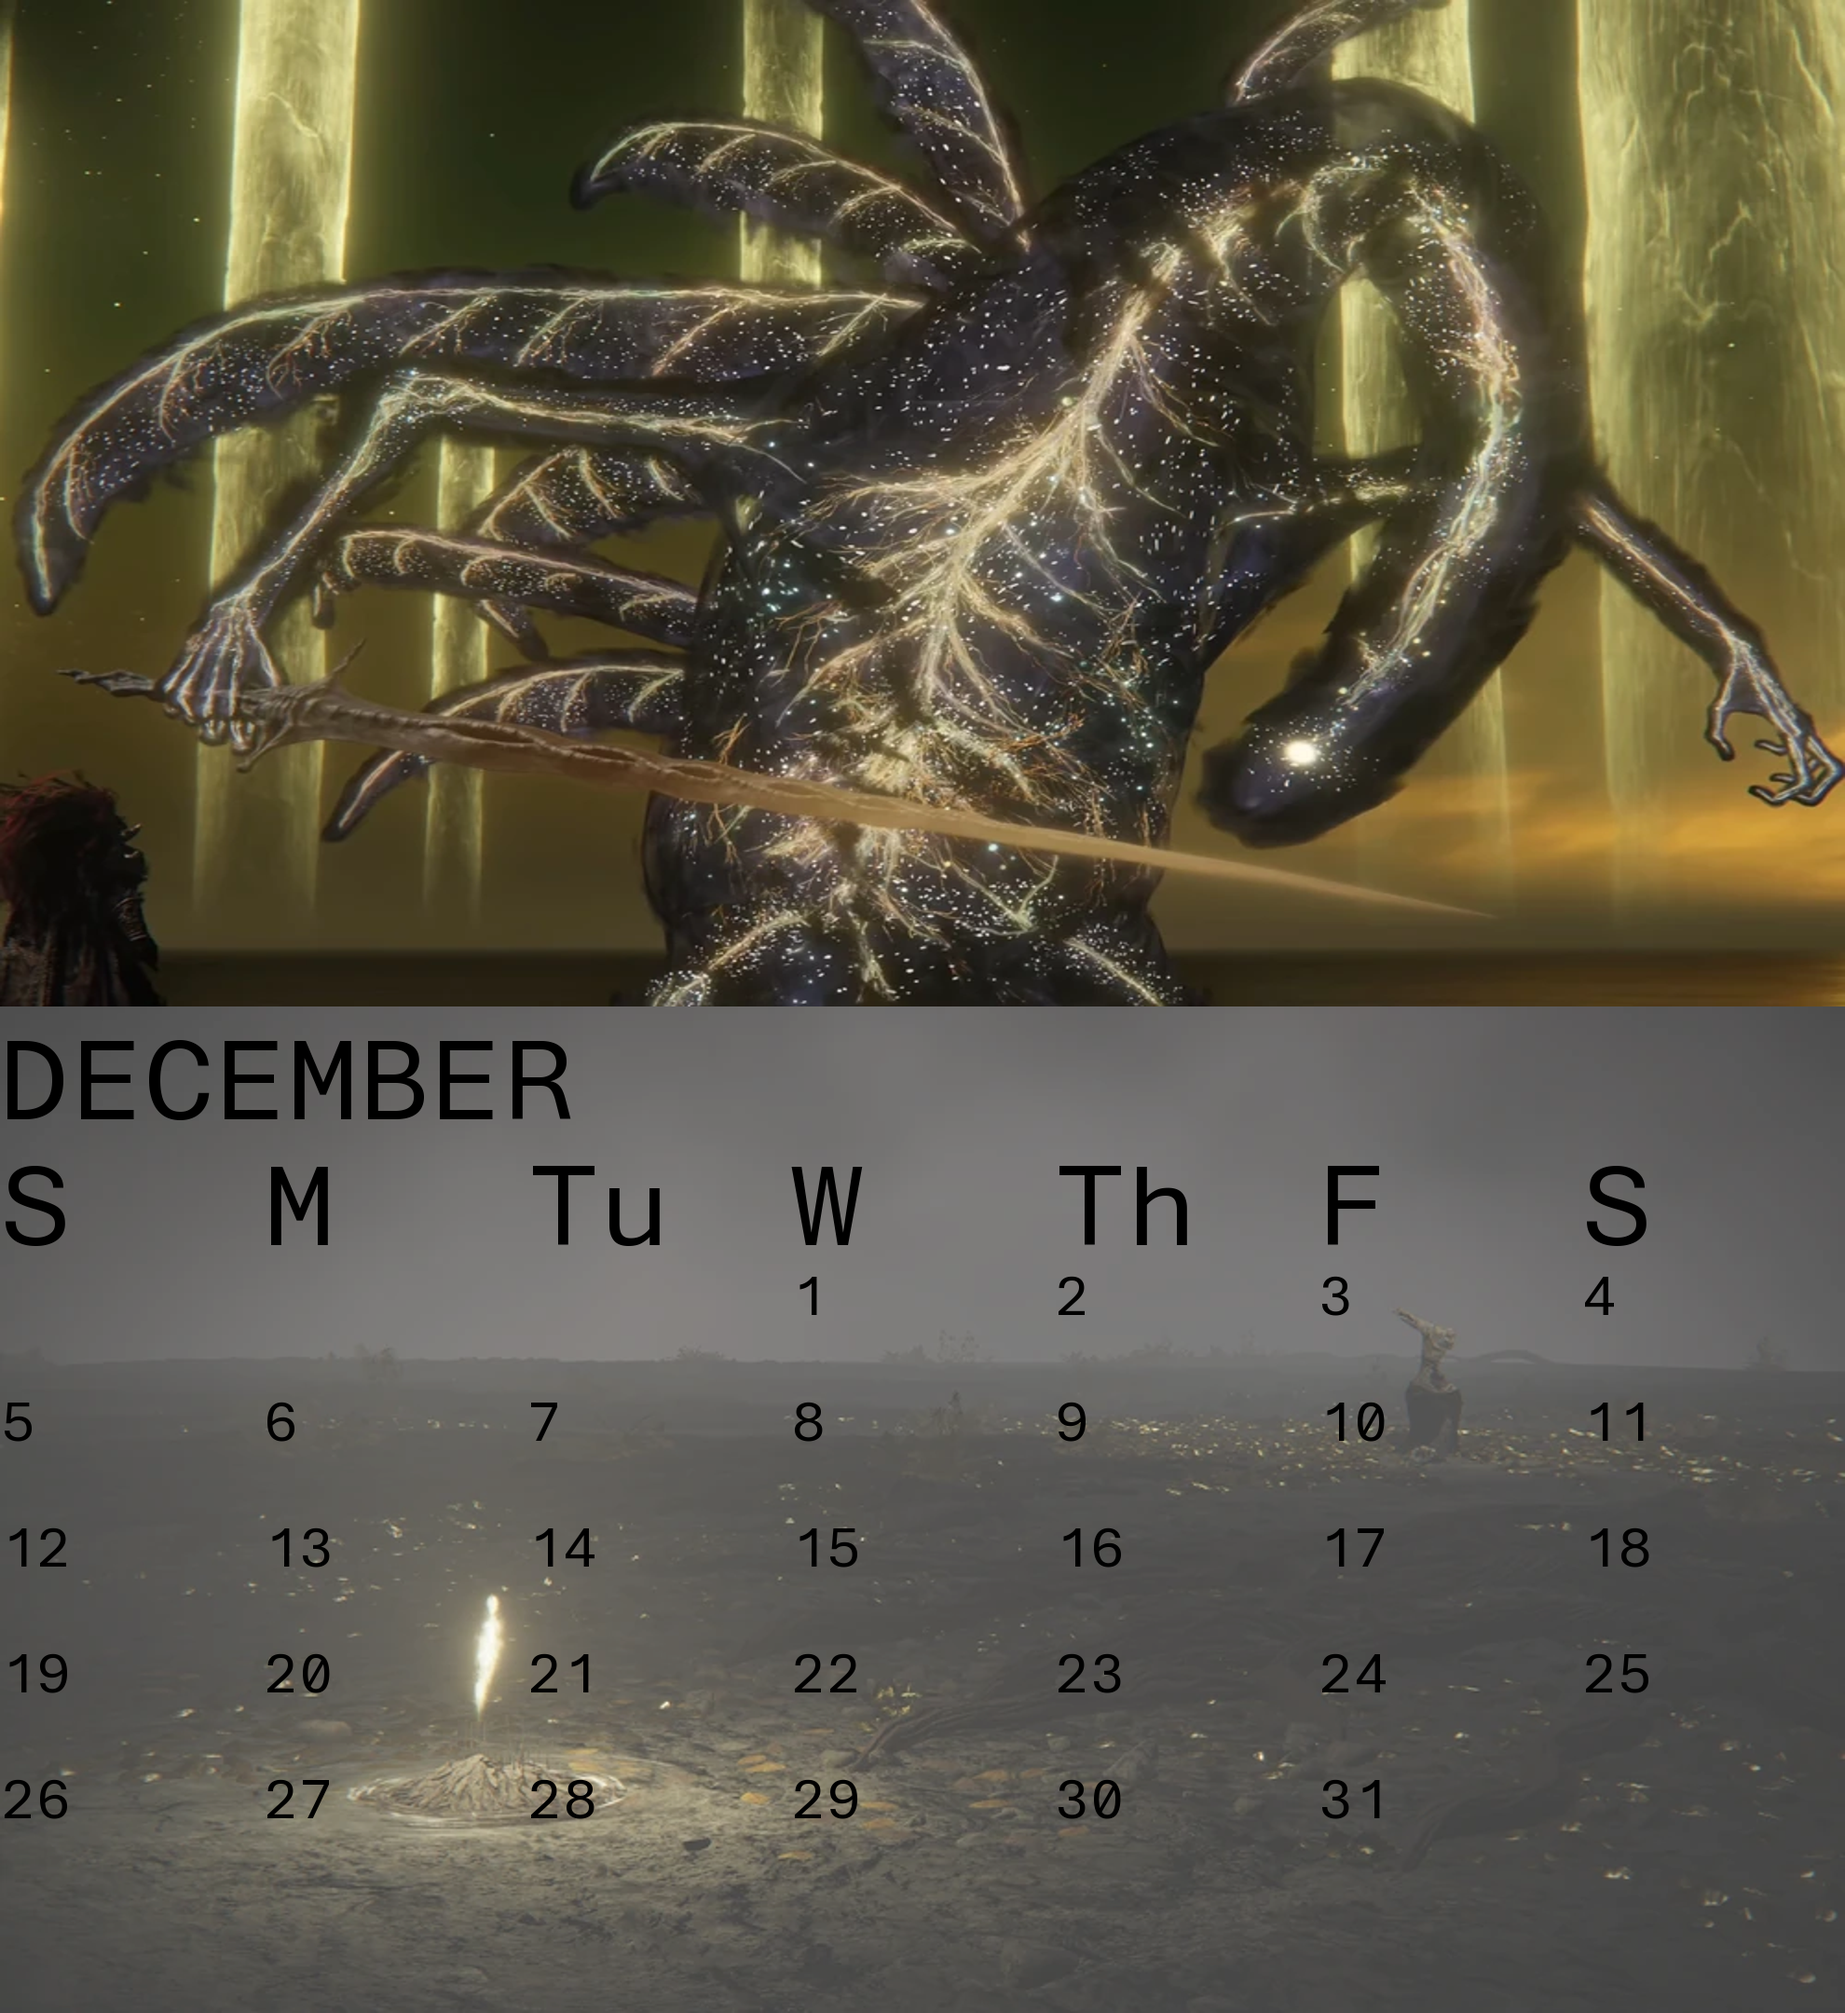
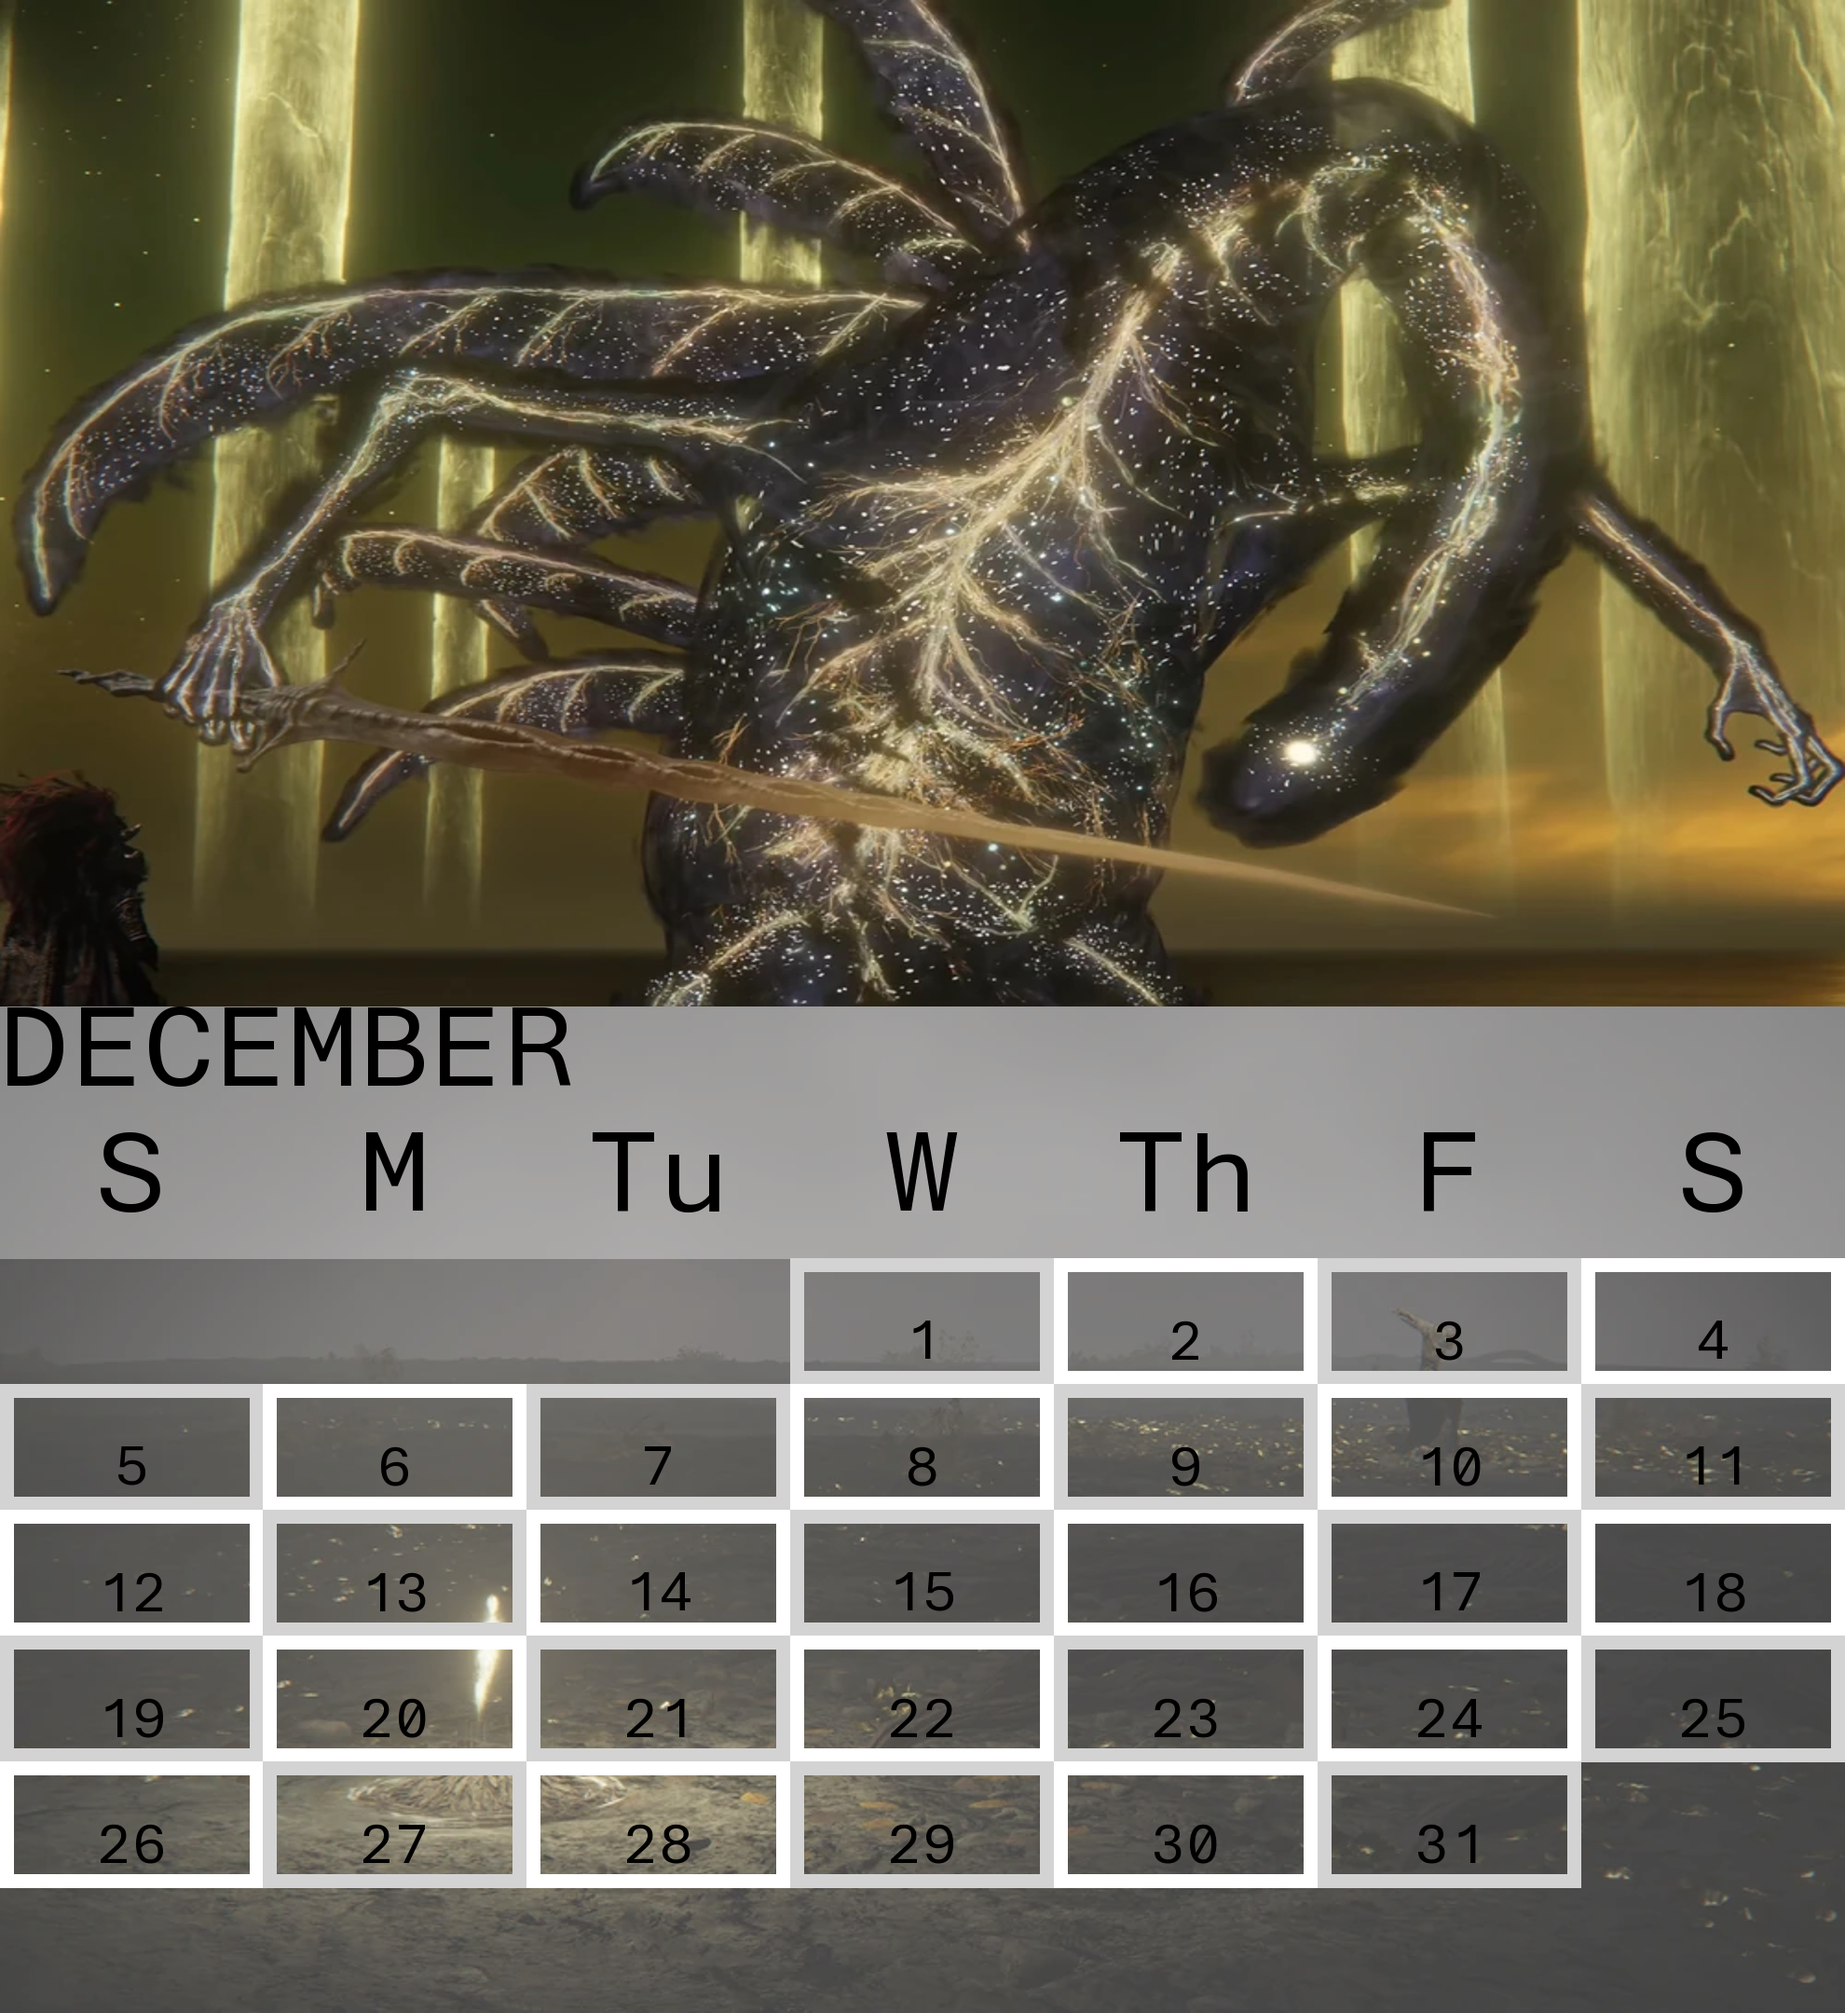
Added rectangles and better centered text.

Changed region(s): [[0.0, 0.4963, 1.0, 0.9616]]

diff --git a/calendar-generator.py b/calendar-generator.py
@@ -14,10 +14,10 @@ def get_images(folder):
         img_arr.append(img)
     return img_arr
 
-def add_text(img, text, position, font_size, colour):
+def add_text(img, text, position, font_size, colour,anchor="lt"):
     font = ImageFont.truetype("fonts/Aptos-Mono.ttf", font_size)
     draw = ImageDraw.Draw(img)
-    draw.text(position, text, font=font, fill=colour)
+    draw.text(position, text, font=font, fill=colour,anchor=anchor)
     return img
 
 def setup_image(top_images,bottom_images,images_index,date):
@@ -29,13 +29,15 @@ def setup_image(top_images,bottom_images,images_index,date):
     overlay_img=Image.new("RGBA", (1980, 1080*2), (255, 255, 255,255))
     draw = ImageDraw.Draw(overlay_img)
     draw.rectangle((0,1080,1980,1080*2), fill=(255,255,255,64))
+    draw.rectangle((0,8*img.height/16,1980,10*img.height/16), fill=(255,255,255,128))
     img = Image.alpha_composite(img, overlay_img)
 
     img.paste(top_images[images_index],(0,0))
 
     img=add_text(img,date.strftime("%B").upper(),(0,img.height/2),128,(0,0,0))
     for i in range(len(weekday_initials)):
-        img=add_text(img,weekday_initials[i],(i*img.width/7,9*img.height/16),128,(0,0,0))
+        x=i*img.width/7+img.width/14
+        img=add_text(img,weekday_initials[i],(x,9*img.height/16),128,(0,0,0),anchor="mt")
     return img
 
 def main():
@@ -77,8 +79,16 @@ def main():
         y=(10*img.height)//16
         y+=(week)*(img.height//16)
 
-        img=add_text(img,str(day),(x,y),64,(0,0,0))
-        date=date+timedelta(days=1)
+        img=add_text(img,str(day),(x+img.width/14,y+img.height/32),64,(0,0,0),anchor="mt")
+        draw = ImageDraw.Draw(img)
+
+        next_date=date+timedelta(days=1)
+        if day%2==0:
+            draw.rectangle((x,y,x+img.width/7,y+img.height/16),fill=None,outline="white",width=15)
+        else:
+            draw.rectangle((x,y,x+img.width/7,y+img.height/16),fill=None,outline="lightgray",width=15)
+        date=next_date
+
     outfile_name=f"output/({last_month}) {image_names[last_month-1].title()}.png"
     img.save(outfile_name)
     print(f"Saved {outfile_name}")
